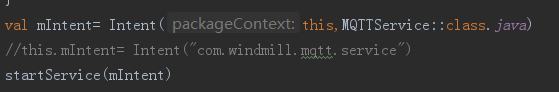
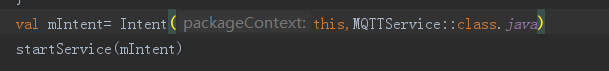
1.修改

Changed region(s): [[0.0, 0.1127, 0.9428, 0.4789], [0.0, 0.4507, 0.7299, 0.8732], [0.0, 0.0, 0.0608, 0.0845]]

diff --git a/html/2020-10-13-01.html b/html/2020-10-13-01.html
@@ -36,7 +36,7 @@
                             <div class="page-write-content"><div class="padding-tb-10 line-height">
     今天遇到很奇怪的问题，startService无论如何都无法启动Service，检查AndroidManifest.xml没有问题，反复看了代码
     <br>
-    <img src="../img/2020-10-13-01.png"  style="width:559px;height:92px;float:center;"/>
+    <img src="../img/2020-10-13-01.png"  style="width:609px;height:71px;float:center;"/>
     <br>
     没有问题啊！最后clean下项目不行，rebuild也不行，重启AS不行，重启手机还是不行，突然想起
     <br>

diff --git a/content/2020-10-13-01.html b/content/2020-10-13-01.html
@@ -1,7 +1,7 @@
 <div class="padding-tb-10 line-height">
     今天遇到很奇怪的问题，startService无论如何都无法启动Service，检查AndroidManifest.xml没有问题，反复看了代码
     <br>
-    <img src="../img/2020-10-13-01.png"  style="width:559px;height:92px;float:center;"/>
+    <img src="../img/2020-10-13-01.png"  style="width:609px;height:71px;float:center;"/>
     <br>
     没有问题啊！最后clean下项目不行，rebuild也不行，重启AS不行，重启手机还是不行，突然想起
     <br>

diff --git a/index.html b/index.html
@@ -8,7 +8,7 @@
             <script src="js/jquery-1.9.1.min.js" type="text/javascript"></script>
             <link type="text/css" href="bootstrap-3.3.7/css/bootstrap.min.css" rel="stylesheet" />
             <script type="text/javascript" src="bootstrap-3.3.7/js/bootstrap.min.js"></script>
-            <link type="text/css" href="css/all.css?t=353199679" rel="stylesheet" />
+            <link type="text/css" href="css/all.css?t=203841819" rel="stylesheet" />
             
         </head>
         <body>
